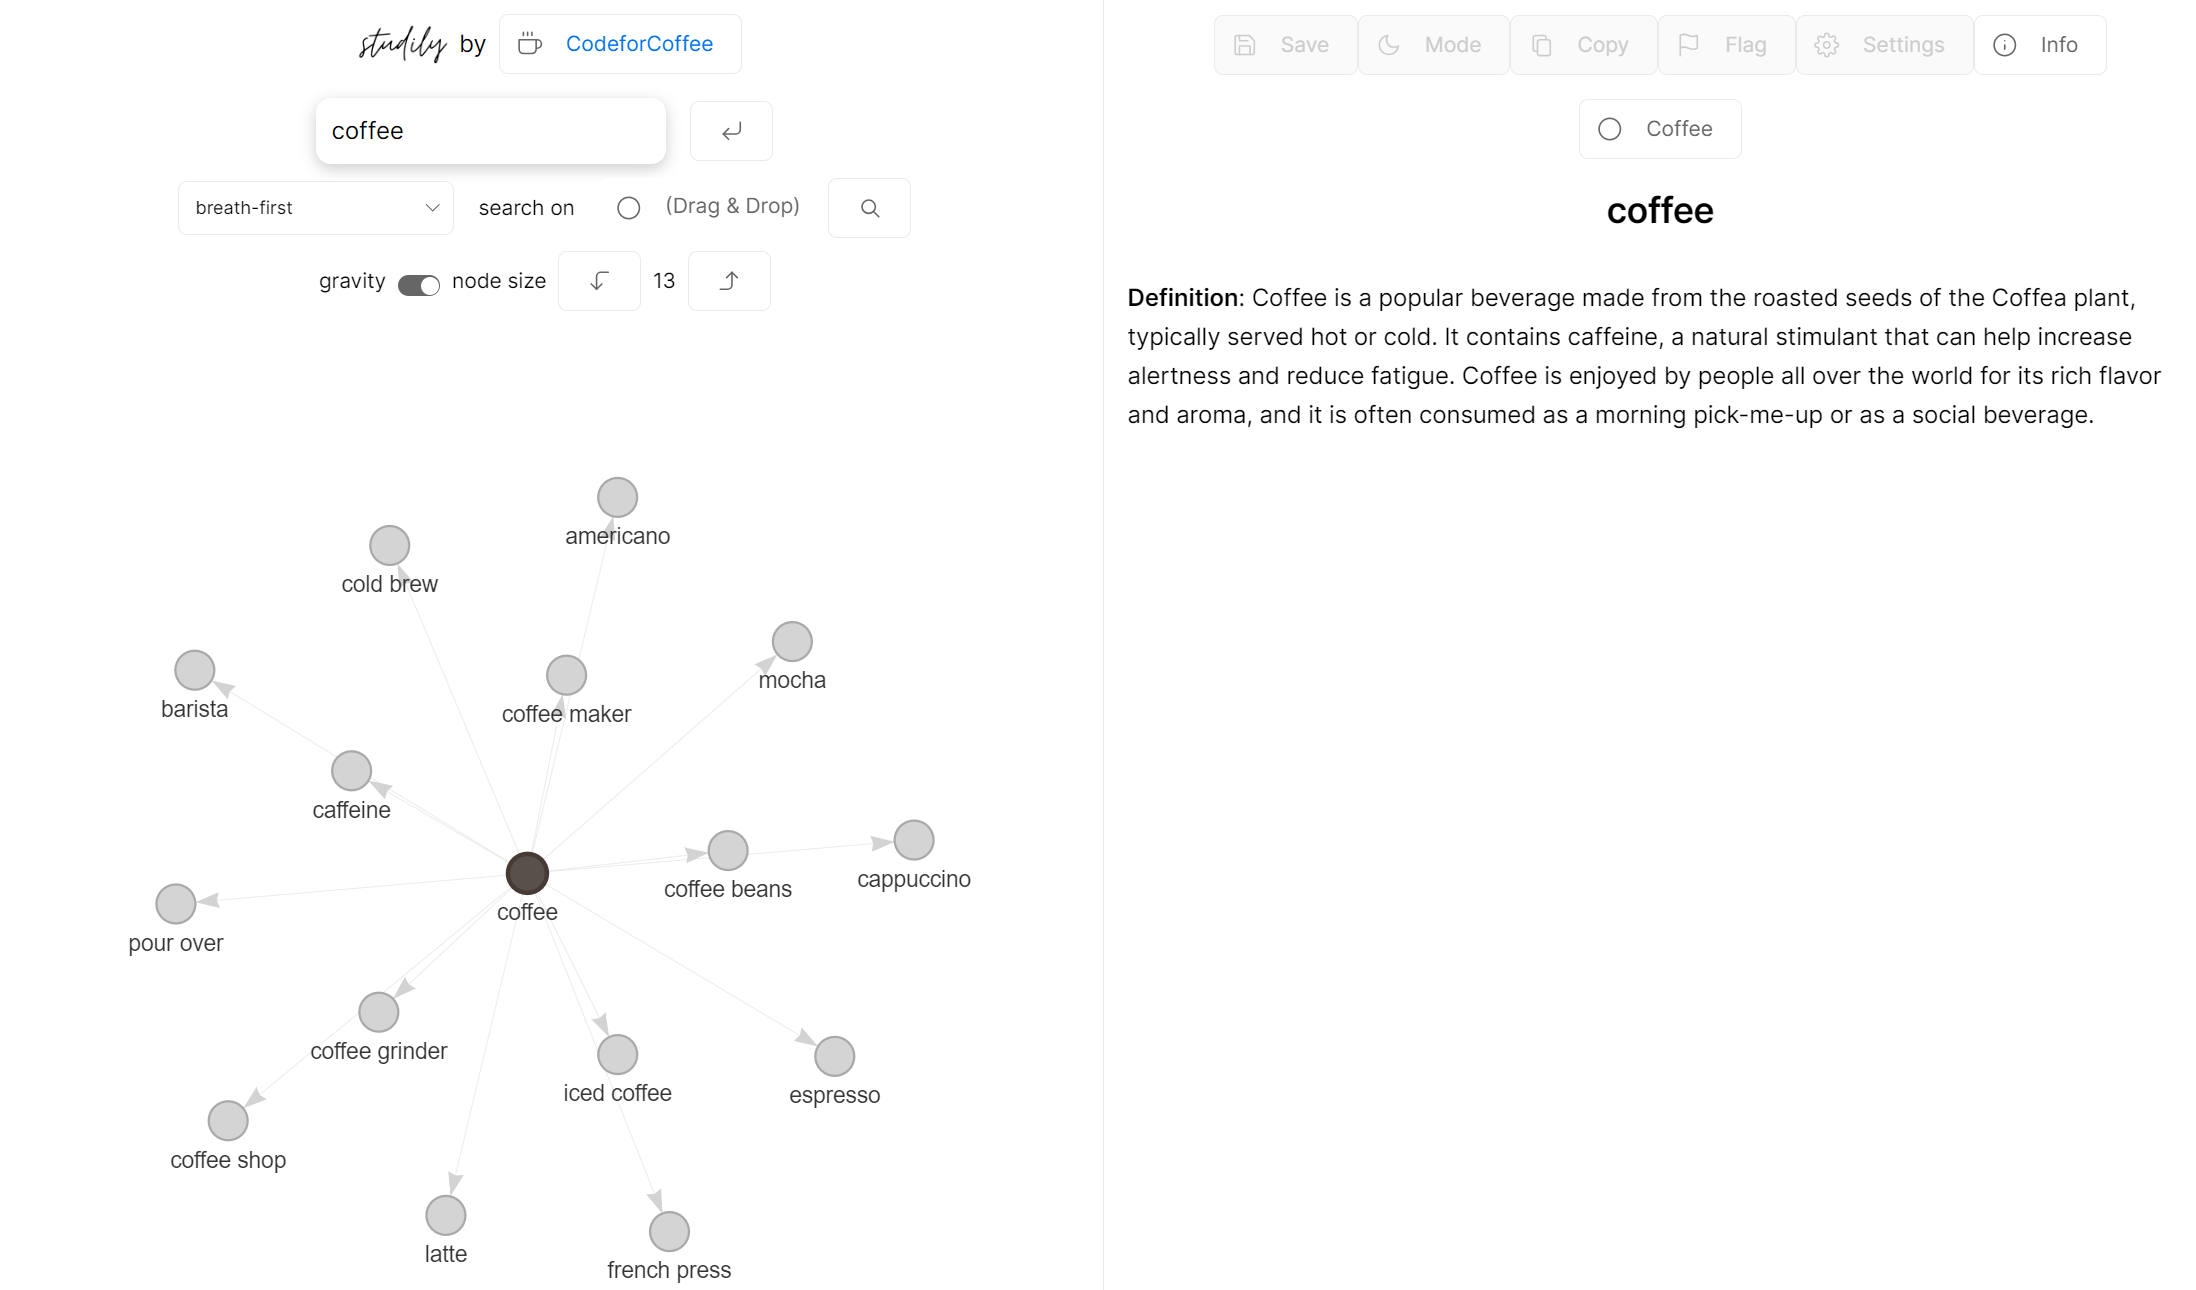
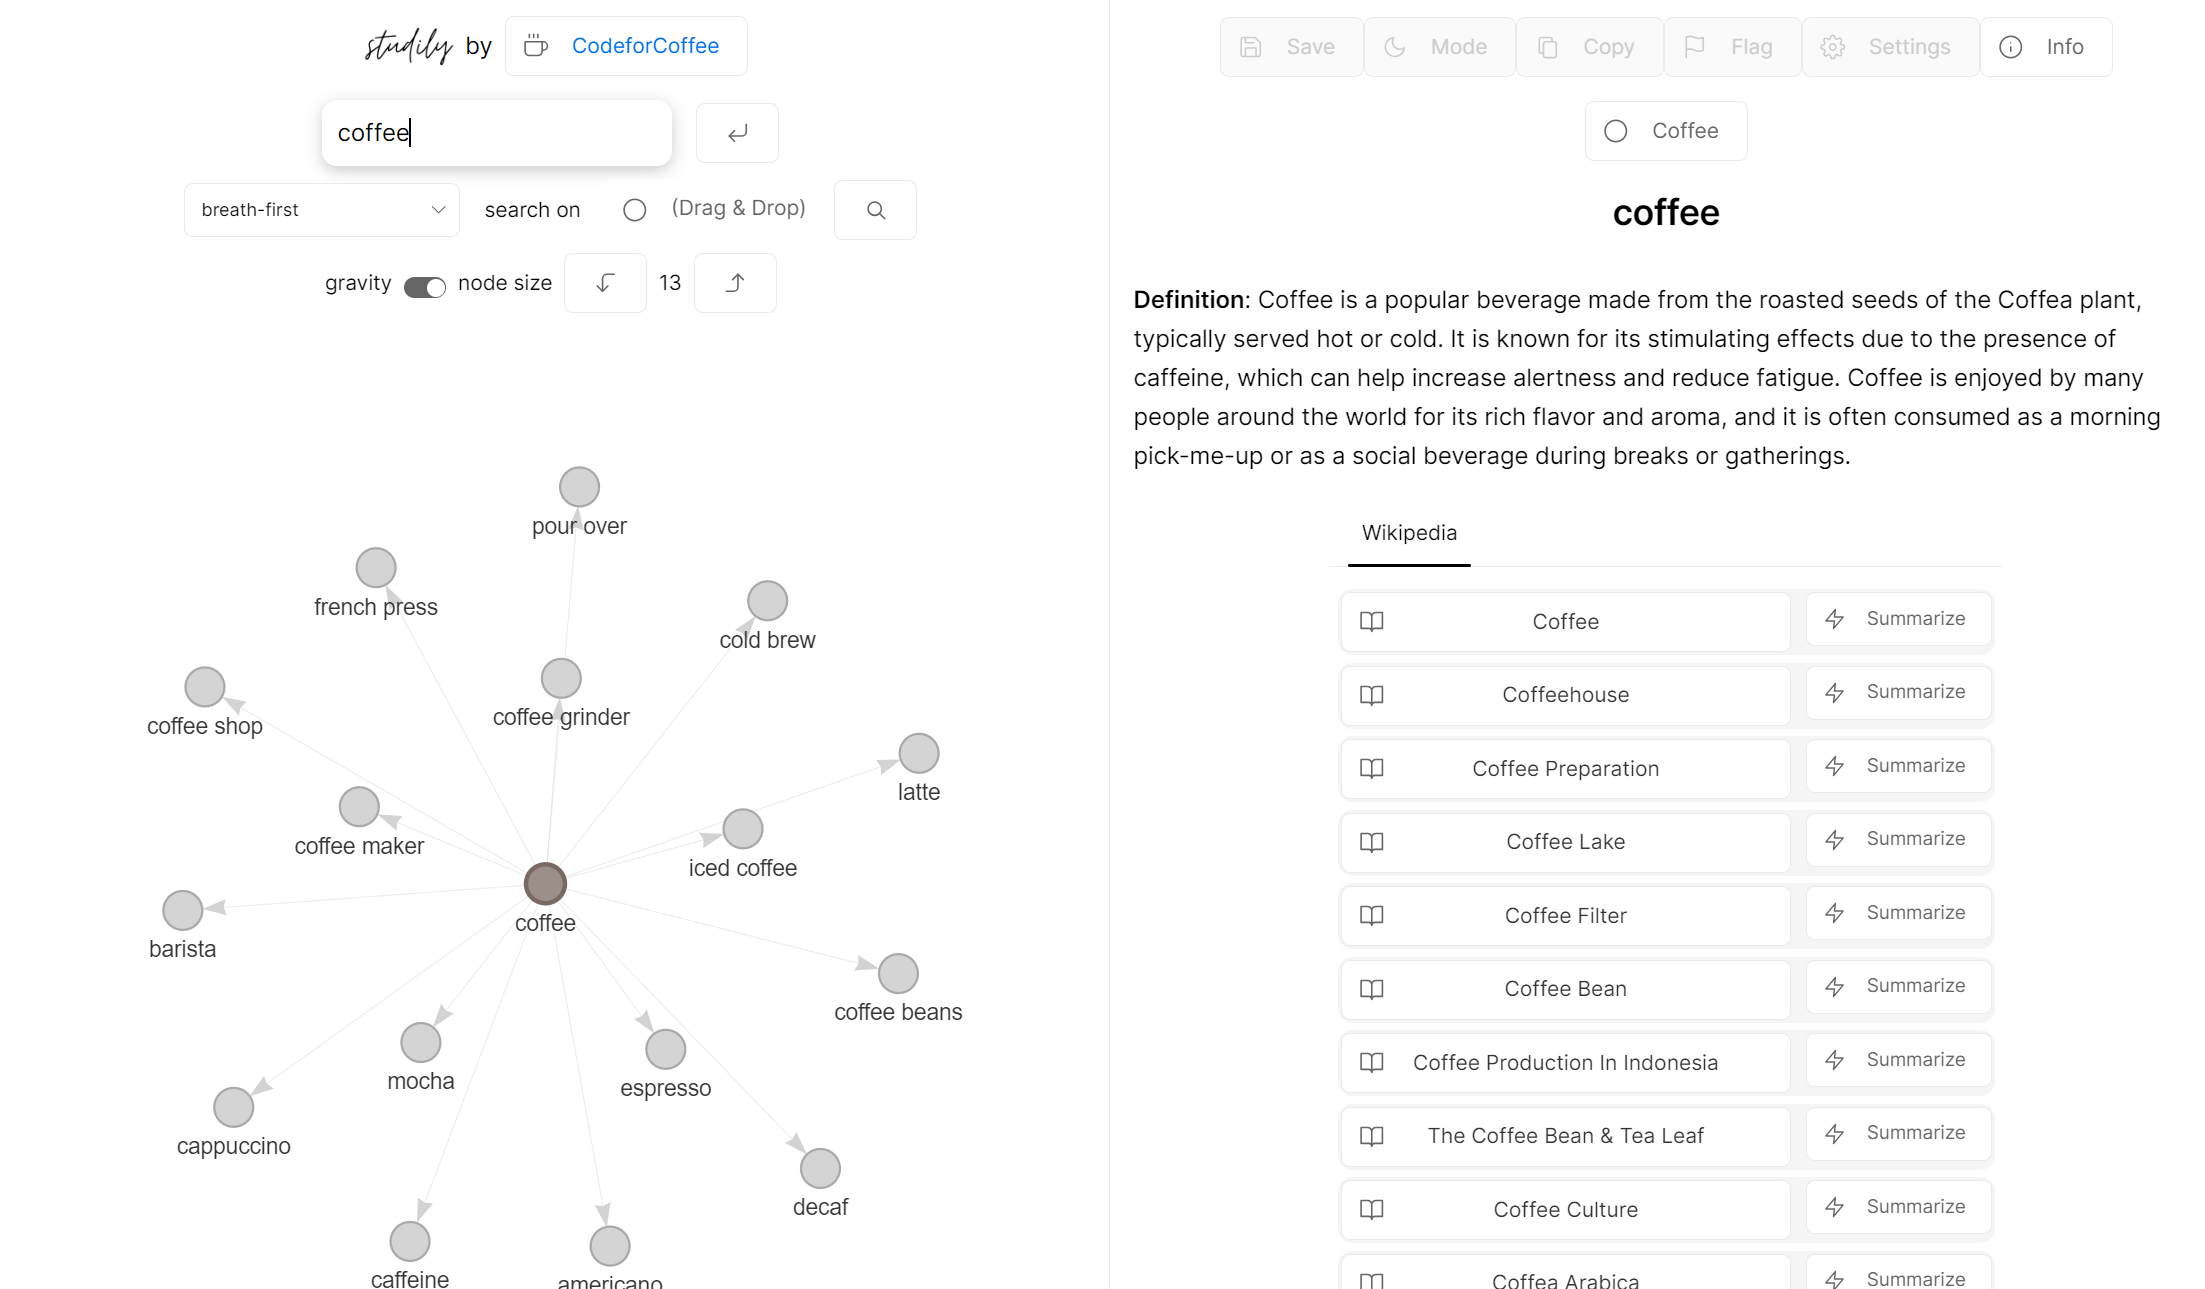
readme

diff --git a/frontend/src/components/infoPage.js b/frontend/src/components/infoPage.js
@@ -110,7 +110,7 @@ const WikiListComponent = ({initNode}) => {
                     // </Button>
                     <Button loading scale={0.75}></Button>
                     :
-                    <Button disabled icon={<Zap />} auto scale={0.8} onClick={() => handleClick(item.pageid, index)} style={styles.button}>Summarize</Button>
+                    <Button icon={<Zap />} auto scale={0.8} onClick={() => handleClick(item.pageid, index)} style={styles.button}>Summarize</Button>
                 }
             </div>
             {
